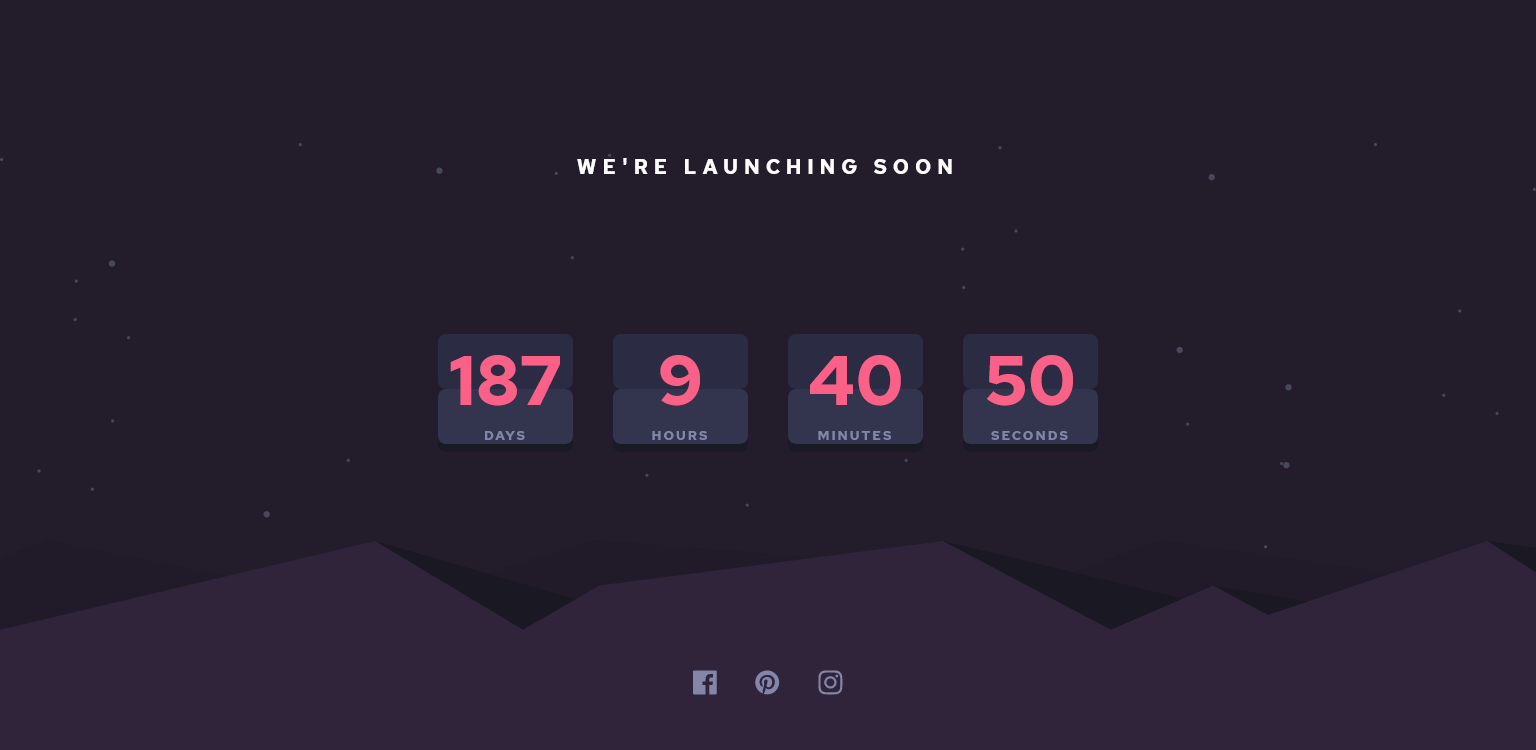
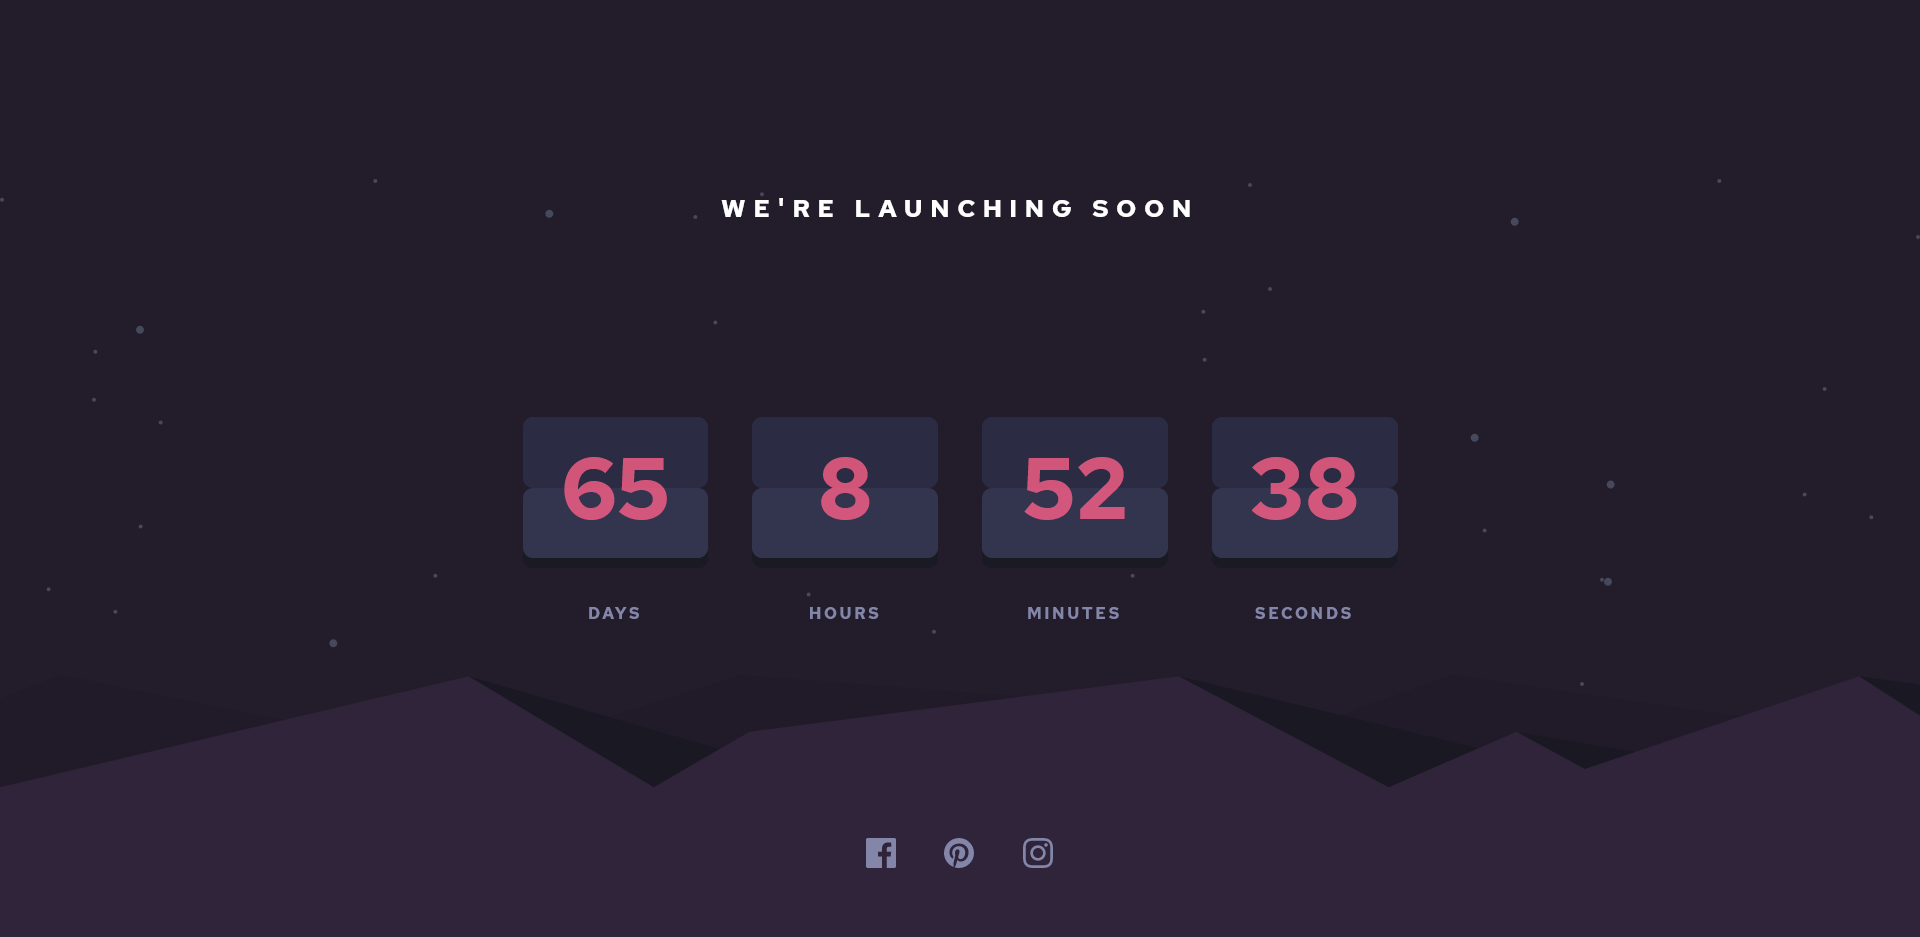
readme and code change

diff --git a/styles.sass b/styles.sass
@@ -3,6 +3,7 @@
 *
     font-family: 'Red Hat Text', sans-serif
     text-transform: uppercase
+    box-sizing: border-box
 body
     background-image: url(./images/pattern-hills.svg), linear-gradient(0deg, #2f2439 15%, #00000000 15%), url(./images/bg-stars.svg), linear-gradient(0deg, #2f2439 15%, #231d2b 15%)
     background-repeat: no-repeat
@@ -25,6 +26,7 @@ body
 #cd-container
     margin-top: 60px
     display: grid
+    column-gap: 5%
     width: 90%
     grid-template-rows: 1fr
     grid-template-columns: 1fr 1fr 1fr 1fr
@@ -45,13 +47,19 @@ body
     flex-direction: column
     align-items: center
     position: relative
+    padding-top: 10px
+    padding-bottom: 10px
 .cd-number
     color: hsl(345, 95%, 68%)
+    opacity: 80%
     font-size: 35px
 .cd-poster
     color: hsl(237, 18%, 59%)
     font-size: 7px
     letter-spacing: 2px
+    transform: translateY(300%)
+    position: absolute
+    bottom: 0
 //icons
 .icon-container
     position: fixed
@@ -89,6 +97,7 @@ body
     background: #2b2c44
     z-index: -1
     position: absolute
+    top: 0
     transform-origin: 50% 100%
     transition: transform ease-in 0.5s
 // .cd-block:hover
@@ -117,9 +126,6 @@ body
     #cd-container
         margin-top: 10%
         max-width: 700px
-    .cd-block
-        margin-left: 20px
-        margin-right: 20px
     .cd-number
         font-size: 70px
     .cd-poster

diff --git a/styles.css b/styles.css
@@ -2,6 +2,8 @@
 * {
   font-family: 'Red Hat Text', sans-serif;
   text-transform: uppercase;
+  -webkit-box-sizing: border-box;
+          box-sizing: border-box;
 }
 
 body {
@@ -46,6 +48,8 @@ body {
   margin-top: 60px;
   display: -ms-grid;
   display: grid;
+  -webkit-column-gap: 5%;
+          column-gap: 5%;
   width: 90%;
   -ms-grid-rows: 1fr;
       grid-template-rows: 1fr;
@@ -93,10 +97,13 @@ body {
       -ms-flex-align: center;
           align-items: center;
   position: relative;
+  padding-top: 10px;
+  padding-bottom: 10px;
 }
 
 .cd-number {
   color: #fb6087;
+  opacity: 80%;
   font-size: 35px;
 }
 
@@ -104,6 +111,10 @@ body {
   color: #8486a9;
   font-size: 7px;
   letter-spacing: 2px;
+  -webkit-transform: translateY(300%);
+          transform: translateY(300%);
+  position: absolute;
+  bottom: 0;
 }
 
 .icon-container {
@@ -167,6 +178,7 @@ body {
   background: #2b2c44;
   z-index: -1;
   position: absolute;
+  top: 0;
   -webkit-transform-origin: 50% 100%;
           transform-origin: 50% 100%;
   -webkit-transition: -webkit-transform ease-in 0.5s;
@@ -202,10 +214,6 @@ body {
   #cd-container {
     margin-top: 10%;
     max-width: 700px;
-  }
-  .cd-block {
-    margin-left: 20px;
-    margin-right: 20px;
   }
   .cd-number {
     font-size: 70px;

diff --git a/script.js b/script.js
@@ -1,6 +1,6 @@
 //time in seconds
 const title = document.getElementById("title");
-const targetDate = new Date("10/10/2021").getTime();
+const targetDate = new Date("06/10/2021").getTime();
 const days = document.getElementById("days");
 const hours = document.getElementById("hours");
 const minutes = document.getElementById("minutes");

diff --git a/README.md b/README.md
@@ -16,8 +16,6 @@ This is a solution to the [Launch countdown timer challenge on Frontend Mentor](
 - [Author](#author)
 - [Acknowledgments](#acknowledgments)
 
-**Note: Delete this note and update the table of contents based on what sections you keep.**
-
 ## Overview
 
 ### The challenge
@@ -32,16 +30,16 @@ Users should be able to:
 
 Desktop version
 
-![Desktop version](https://github.com/SimoneRocutto/interactive-pricing-component/blob/master/results/desktop%20screenshot.png?raw=true)
+![Desktop version](https://github.com/SimoneRocutto/launch-countdown-timer/blob/master/results/desktop.png?raw=true)
 
 Mobile version
 
-![Mobile version](https://github.com/SimoneRocutto/interactive-pricing-component/blob/master/results/mobile%20screenshot.png?raw=true)
+![Mobile version](https://github.com/SimoneRocutto/launch-countdown-timer/blob/master/results/mobile.png?raw=true)
 
 ### Links
 
 - Solution URL: https://your-solution-url.com
-- Site URL: https://simonerocutto.github.io/interactive-pricing-component/
+- Site URL: https://simonerocutto.github.io/launch-countdown-timer/
 
 ### My process
 ### Built with
@@ -55,9 +53,8 @@ Mobile version
 
 ### What I learned
 
-I learned how to make a slider starting from the range-type input html element, using css to customize it and javascript to fill its bar while moving the handle.
-I also learned how to work with input informations in order to display them on the page.
-Finally, I learned how to create a switch from a checkbox-type input html element. 
+- CSS: I learned how to properly position multiple background images, how to change svg fill color.
+
 ## Author
 
 - Frontend Mentor - [@SimoneRocutto](https://www.frontendmentor.io/profile/SimoneRocutto)
